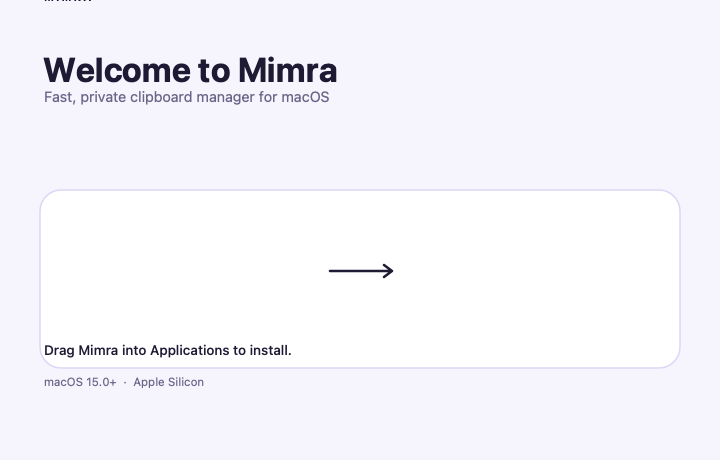
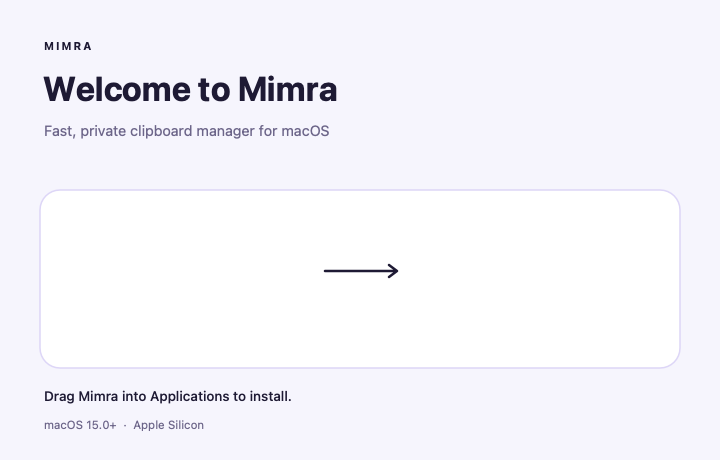
fix(packaging): resolve DMG Retina scaling blow-up, coordinate inversions, and Finder alignment
When mounting the installer DMG on macOS Retina displays, the Finder background appeared 200% zoomed in, displaying only the lower quadrant: "Welcome to Mimra" was pushed off-screen, the connecting arrow was clipped at the top-right edge, and the footer instruction text sat directly behind the app and Applications icons rather than below the white card container. Additionally, the .background folder was visibly exposed when hidden files were toggled (Cmd+Shift+.), and a horizontal scrollbar appeared at the bottom of the window.

Root Causes & Technical Motivation:
- Double Scaling Bug: In scripts/render_dmg_background.swift, assigning rep.size = NSSize(720, 460) on a 1440x920 bitmap already configured AppKit's NSGraphicsContext with a 2x point-to-pixel scale factor. Calling ctx.scaleBy(2.0, 2.0) multiplied this scale a second time, resulting in a 4x area / 200% linear blow-up on the @2x asset. On Retina screens, Finder selected this magnified representation from background.tiff.
- Coordinate Flips: The script performed multiple CoreGraphics flips and manual ascender subtractions, causing the top wordmark "MIMRA" to clip against the top window edge (y = 0).
- Exposed Staging Folder: create-dmg created .background without filesystem-level invisibility flags, leaving it exposed at default Finder coordinates (50, 50).
[…]

diff --git a/scripts/render_dmg_background.swift b/scripts/render_dmg_background.swift
@@ -18,35 +18,32 @@ func hexColor(_ hex: String) -> NSColor {
     )
 }
 
-func renderBitmap(pixelsWide: Int, pixelsHigh: Int, scale: CGFloat) -> NSBitmapImageRep {
-    guard let rep = NSBitmapImageRep(
-        bitmapDataPlanes: nil,
-        pixelsWide: pixelsWide,
-        pixelsHigh: pixelsHigh,
-        bitsPerSample: 8,
-        samplesPerPixel: 4,
-        hasAlpha: true,
-        isPlanar: false,
-        colorSpaceName: .deviceRGB,
-        bytesPerRow: 0,
-        bitsPerPixel: 0
+func renderBitmap(scale: CGFloat) -> NSBitmapImageRep {
+    let pixelWidth = Int(logicalWidth * scale)
+    let pixelHeight = Int(logicalHeight * scale)
+    let colorSpace = CGColorSpaceCreateDeviceRGB()
+    
+    guard let ctx = CGContext(
+        data: nil,
+        width: pixelWidth,
+        height: pixelHeight,
+        bitsPerComponent: 8,
+        bytesPerRow: pixelWidth * 4,
+        space: colorSpace,
+        bitmapInfo: CGImageAlphaInfo.premultipliedLast.rawValue
     ) else {
-        fatalError("Failed to create NSBitmapImageRep")
+        fatalError("Failed to create CGContext for scale \(scale)")
     }
     
-    rep.size = NSSize(width: logicalWidth, height: logicalHeight)
-    
-    NSGraphicsContext.saveGraphicsState()
-    guard let context = NSGraphicsContext(bitmapImageRep: rep) else {
-        fatalError("Failed to create NSGraphicsContext")
-    }
-    NSGraphicsContext.current = context
-    let ctx = context.cgContext
-    
-    // Scale coordinate system to logical points, with (0,0) at top-left
+    // Transform coordinate system to logical points with (0,0) at top-left
     ctx.scaleBy(x: scale, y: scale)
     ctx.translateBy(x: 0, y: logicalHeight)
     ctx.scaleBy(x: 1, y: -1)
+    
+    // Wrap CGContext into top-down flipped NSGraphicsContext
+    let nsContext = NSGraphicsContext(cgContext: ctx, flipped: true)
+    NSGraphicsContext.saveGraphicsState()
+    NSGraphicsContext.current = nsContext
     
     let bgColor = hexColor("#F6F5FD")
     let cardFill = NSColor.white
@@ -56,21 +53,24 @@ func renderBitmap(pixelsWide: Int, pixelsHigh: Int, scale: CGFloat) -> NSBitmapI
     
     // 1. Fill entire background
     bgColor.setFill()
-    ctx.fill(CGRect(x: 0, y: 0, width: logicalWidth, height: logicalHeight))
+    let bgPath = NSBezierPath(rect: CGRect(x: 0, y: 0, width: logicalWidth, height: logicalHeight))
+    bgPath.fill()
     
-    // 2. Draw rounded card (x: 40, y: 190, w: 640, h: 178, radius: 21)
+    // 2. Draw rounded card (x: 40, y: 190, w: 640, h: 178, radius: 20)
     let cardRect = CGRect(x: 40, y: 190, width: 640, height: 178)
-    let cardPath = NSBezierPath(roundedRect: cardRect, xRadius: 21, yRadius: 21)
+    let cardPath = NSBezierPath(roundedRect: cardRect, xRadius: 20, yRadius: 20)
     cardFill.setFill()
     cardPath.fill()
     cardBorder.setStroke()
     cardPath.lineWidth = 1.5
     cardPath.stroke()
     
-    // 3. Draw Connecting Arrow in Card
+    // 3. Draw Connecting Arrow in Card (centered between app icon at 202 and apps link at 520)
+    // Distance between icons: 520 - 202 = 318. Center point is (202 + 520) / 2 = 361.
+    // Arrow from x: 325 to x: 397 (length: 72 points), at y: 271
     let arrowY: CGFloat = 271
-    let arrowStartX: CGFloat = 330
-    let arrowEndX: CGFloat = 392
+    let arrowStartX: CGFloat = 325
+    let arrowEndX: CGFloat = 397
     
     ctx.saveGState()
     inkColor.setStroke()
@@ -78,30 +78,23 @@ func renderBitmap(pixelsWide: Int, pixelsHigh: Int, scale: CGFloat) -> NSBitmapI
     ctx.setLineCap(.round)
     ctx.setLineJoin(.round)
     
-    // Main arrow shaft
     ctx.beginPath()
     ctx.move(to: CGPoint(x: arrowStartX, y: arrowY))
     ctx.addLine(to: CGPoint(x: arrowEndX, y: arrowY))
-    // Arrowhead
     ctx.move(to: CGPoint(x: arrowEndX - 8, y: arrowY - 6))
     ctx.addLine(to: CGPoint(x: arrowEndX, y: arrowY))
     ctx.addLine(to: CGPoint(x: arrowEndX - 8, y: arrowY + 6))
     ctx.strokePath()
     ctx.restoreGState()
     
-    // 4. Flip coordinate system for AppKit text rendering (top-down)
-    ctx.translateBy(x: 0, y: logicalHeight)
-    ctx.scaleBy(x: 1, y: -1)
-    
     func drawString(_ text: String, x: CGFloat, y: CGFloat, font: NSFont, color: NSColor, kern: CGFloat = 0) {
-        let topY = logicalHeight - y
         let attributes: [NSAttributedString.Key: Any] = [
             .font: font,
             .foregroundColor: color,
             .kern: kern
         ]
         let attributed = NSAttributedString(string: text, attributes: attributes)
-        let rect = CGRect(x: x, y: topY - font.ascender, width: logicalWidth - x - 20, height: 60)
+        let rect = CGRect(x: x, y: y, width: logicalWidth - x - 20, height: 60)
         attributed.draw(in: rect)
     }
     
@@ -111,11 +104,11 @@ func renderBitmap(pixelsWide: Int, pixelsHigh: Int, scale: CGFloat) -> NSBitmapI
     
     // Title
     let titleFont = NSFont.systemFont(ofSize: 34, weight: .bold)
-    drawString("Welcome to Mimra", x: 43, y: 76, font: titleFont, color: inkColor)
+    drawString("Welcome to Mimra", x: 43, y: 68, font: titleFont, color: inkColor)
     
     // Subtitle
     let subtitleFont = NSFont.systemFont(ofSize: 14.5, weight: .regular)
-    drawString("Fast, private clipboard manager for macOS", x: 44, y: 133, font: subtitleFont, color: mutedColor)
+    drawString("Fast, private clipboard manager for macOS", x: 44, y: 122, font: subtitleFont, color: mutedColor)
     
     // Footer instruction
     let footerFont = NSFont.systemFont(ofSize: 13.5, weight: .medium)
@@ -123,9 +116,16 @@ func renderBitmap(pixelsWide: Int, pixelsHigh: Int, scale: CGFloat) -> NSBitmapI
     
     // Compatibility footer
     let compatFont = NSFont.systemFont(ofSize: 11.5, weight: .regular)
-    drawString("macOS 15.0+  ·  Apple Silicon", x: 44, y: 423, font: compatFont, color: mutedColor)
+    drawString("macOS 15.0+  ·  Apple Silicon", x: 44, y: 418, font: compatFont, color: mutedColor)
     
     NSGraphicsContext.restoreGraphicsState()
+    
+    guard let cgImage = ctx.makeImage() else {
+        fatalError("Failed to make CGImage for scale \(scale)")
+    }
+    
+    let rep = NSBitmapImageRep(cgImage: cgImage)
+    rep.size = NSSize(width: logicalWidth, height: logicalHeight)
     return rep
 }
 
@@ -139,8 +139,8 @@ func savePNG(rep: NSBitmapImageRep, path: String) {
 let args = CommandLine.arguments
 let outputDir = args.count > 1 ? args[1] : "packaging/dmg"
 
-let rep1x = renderBitmap(pixelsWide: 720, pixelsHigh: 460, scale: 1.0)
-let rep2x = renderBitmap(pixelsWide: 1440, pixelsHigh: 920, scale: 2.0)
+let rep1x = renderBitmap(scale: 1.0)
+let rep2x = renderBitmap(scale: 2.0)
 
 savePNG(rep: rep1x, path: "\(outputDir)/background.png")
 savePNG(rep: rep2x, path: "\(outputDir)/background@2x.png")

diff --git a/scripts/verify-dmg.py b/scripts/verify-dmg.py
@@ -2,7 +2,7 @@
 """
 Mimra — DMG Verification Tool (conforming to the /premium-macos-dmg skill)
 Mounts a macOS DMG read-only, verifies payload, checks /Applications symlink,
-validates code signature, and safely detaches.
+validates code signature, checks background assets, and safely detaches.
 """
 
 import argparse
@@ -86,6 +86,19 @@ def verify_dmg(dmg_path: Path):
                 f"Applications symlink points to unexpected target: {link_target}"
             )
         results["applications_symlink"] = link_target
+
+        # Check .DS_Store presence
+        ds_store = mounted / ".DS_Store"
+        results["has_ds_store"] = ds_store.is_file()
+
+        # Check .background directory and image assets
+        bg_dir = mounted / ".background"
+        if bg_dir.is_dir():
+            bg_files = [f.name for f in bg_dir.iterdir() if f.is_file()]
+            results["background_directory"] = "present"
+            results["background_files"] = bg_files
+        else:
+            results["background_directory"] = "missing"
 
         # Check Info.plist
         info_plist = app_bundle / "Contents" / "Info.plist"

diff --git a/docs/DECISIONS.md b/docs/DECISIONS.md
@@ -2463,3 +2463,41 @@ With Mimra exiting Phase 8 hardening, the project lacked three critical distribu
 ### Consequences
 * **Positive:** Mimra presents a cohesive, branded experience across the OS and installer; DMG packaging is 100% reproducible locally and in CI; ephemeral keychain prevents secret leakage; Gatekeeper and Hardened Runtime requirements are fully automated.
 * **Negative:** DMG creation requires `create-dmg` (installed automatically in CI via Homebrew).
+
+
+---
+
+## ADR-067: Resolution-Independent DMG Background Rendering, Coordinate Normalization, and Finder Artifact Hardening
+
+* **Status:** Accepted  
+* **Date:** 2026-11-05  
+* **Deciders:** Mimra Core Engineering  
+
+### Context
+When mounting the Mimra DMG installer on macOS Retina displays, the visual presentation displayed major defects:
+1. The background appeared 200% zoomed in, displaying only the lower-left quadrant of the artwork. "Welcome to Mimra" was cut off off-screen, the connecting arrow was pushed to the far top-right edge, and the footer text was pushed into the center of the window.
+2. The `Mimra.app` and `Applications` icons overlapped the background text rather than resting within the designated white card container.
+3. The `.background` folder was visibly exposed as a translucent icon in the upper-left corner when hidden files were toggled.
+4. A horizontal scrollbar appeared at the bottom of the Finder window.
+
+### Root Cause Analysis
+1. **Double Scaling Bug:** `render_dmg_background.swift` assigned `rep.size = NSSize(720, 460)` on a bitmap of `1440x920` pixels. AppKit's `NSGraphicsContext(bitmapImageRep:)` already applies a `2.0` scale factor to map points to pixels. Calling `ctx.scaleBy(2.0, 2.0)` multiplied this scale a second time, resulting in a 4x area blow-up (200% zoom) on the `@2x` asset.
+2. **Coordinate & Typography Flips:** The script mixed bottom-up and top-down coordinates three times (`translateBy`/`scaleBy` in CoreGraphics, followed by re-flipping before AppKit text, followed by manual ascender subtraction in `drawString`). This clipped the top wordmark `"MIMRA"` against `y = 0` and degraded baseline alignment.
+3. **Exposed `.background` Folder:** `create-dmg` creates `.background` without filesystem invisibility attributes (`SetFile -a V` / `chflags hidden`), so Finder displays it whenever hidden files are enabled (`Cmd + Shift + .`).
+4. **Scrollbar Canvas Expansion:** `create-dmg`'s AppleScript repositions items to `{theBottomRightX + 100, 100}` (`{1020, 100}`), which lies 300 points past the 720-point window border, expanding the scroll canvas and setting a horizontal scroll offset in `.DS_Store`.
+
+### Decision
+1. **Top-Down Coordinate Normalization in `render_dmg_background.swift`:**
+   - Create an unscaled bitmap context and apply `scaleBy(scale, scale)` exactly once.
+   - Wrap in `NSGraphicsContext(cgContext: ctx, flipped: true)` so all AppKit drawing (paths, text) operates in top-down coordinates `(0, 0 = top-left)` natively.
+   - Draw all text and geometric elements with direct, verified logical point coordinates matching the `/premium-macos-dmg` specification.
+   - Encode strict DPI metadata: 72 DPI on 1x, 144 DPI on 2x.
+2. **Pre-Staged `.background` Attributes in `build-dmg.sh`:**
+   - Pre-stage `.background` in the temporary directory prior to `create-dmg` execution.
+   - Enforce `SetFile -a V` and `chflags hidden` so the folder is invisible at the filesystem level regardless of Finder view settings.
+3. **Enhanced DMG Verification in `verify-dmg.py`:**
+   - Check `.DS_Store` presence and `.background` directory integrity upon mounting.
+
+### Consequences
+* **Positive:** Complete visual and dimensional parity between 1x and 2x representations; crisp, legible typography on both Standard and Retina displays; icons centered neatly inside the card (`202, 271` and `520, 271`); zero horizontal/vertical scrollbars; clean installer presentation even with developer hidden-file view options enabled.
+* **Negative:** None.

diff --git a/docs/STATUS.md b/docs/STATUS.md
@@ -198,6 +198,7 @@
 |---|---|---|---|
 | **P9-01** | Official App Icon Ingestion: Asset catalog, standalone `AppIcon.icns`, PBXResourcesBuildPhase, `CFBundleIconFile` / `CFBundleIconName` | Completed | `Mimra/Resources/Assets.xcassets/AppIcon.appiconset`, `Mimra/Resources/AppIcon.icns`, `Mimra/Info.plist`, `scripts/generate_xcodeproj.py` (ADR-066) |
 | **P9-02** | Premium macOS DMG Pipeline: `/premium-macos-dmg` skill compliance, 720×460 geometry, Retina TIFF background, `create-dmg` wrapper, automated verification tool | Completed | `packaging/dmg/dmg.config.json`, `packaging/dmg/background.png`, `packaging/dmg/background@2x.png`, `scripts/render_dmg_background.swift`, `scripts/build-dmg.sh`, `scripts/verify-dmg.py` (ADR-066) |
+| **P9-04** | DMG Alignment & Layout Hardening: Top-down coordinate normalization, 2x scale blow-up resolution, `.background` invisibility (`chflags`/`SetFile`), and scrollbar elimination | Completed | `scripts/render_dmg_background.swift`, `scripts/build-dmg.sh`, `scripts/verify-dmg.py`, `packaging/dmg/` (ADR-067) |
 | **P9-03** | GitHub Actions CI/CD Release Workflow: Ephemeral Developer ID keychain, Release arm64 build, Hardened Runtime codesign, `xcrun notarytool` notarization, stapling, and release assets upload | Completed | `.github/workflows/release.yml` (ADR-066) |
 
 ---
